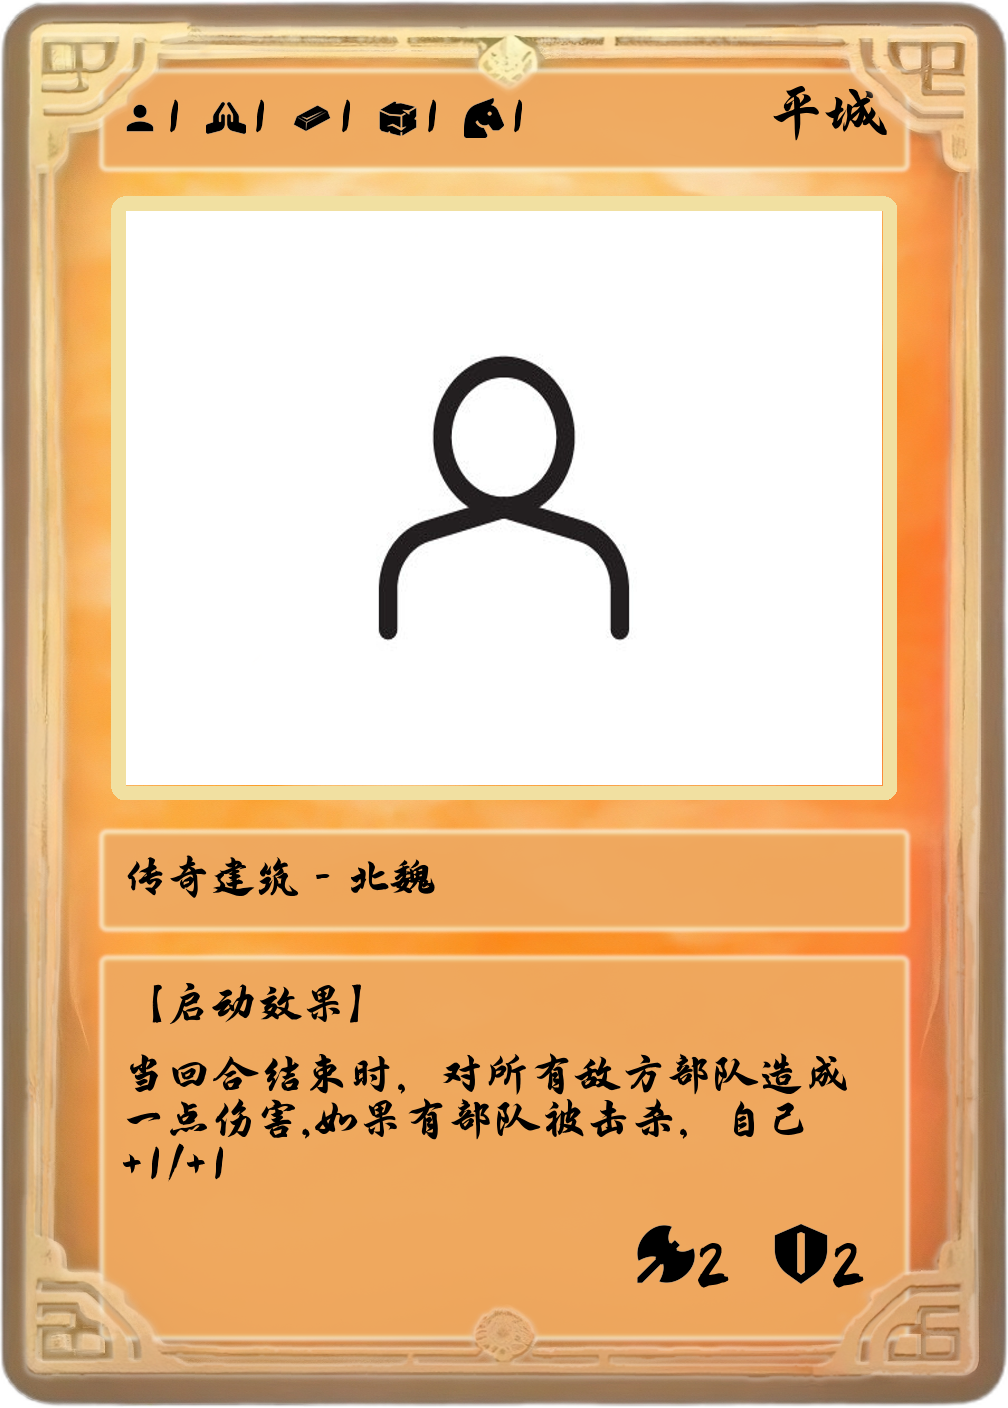
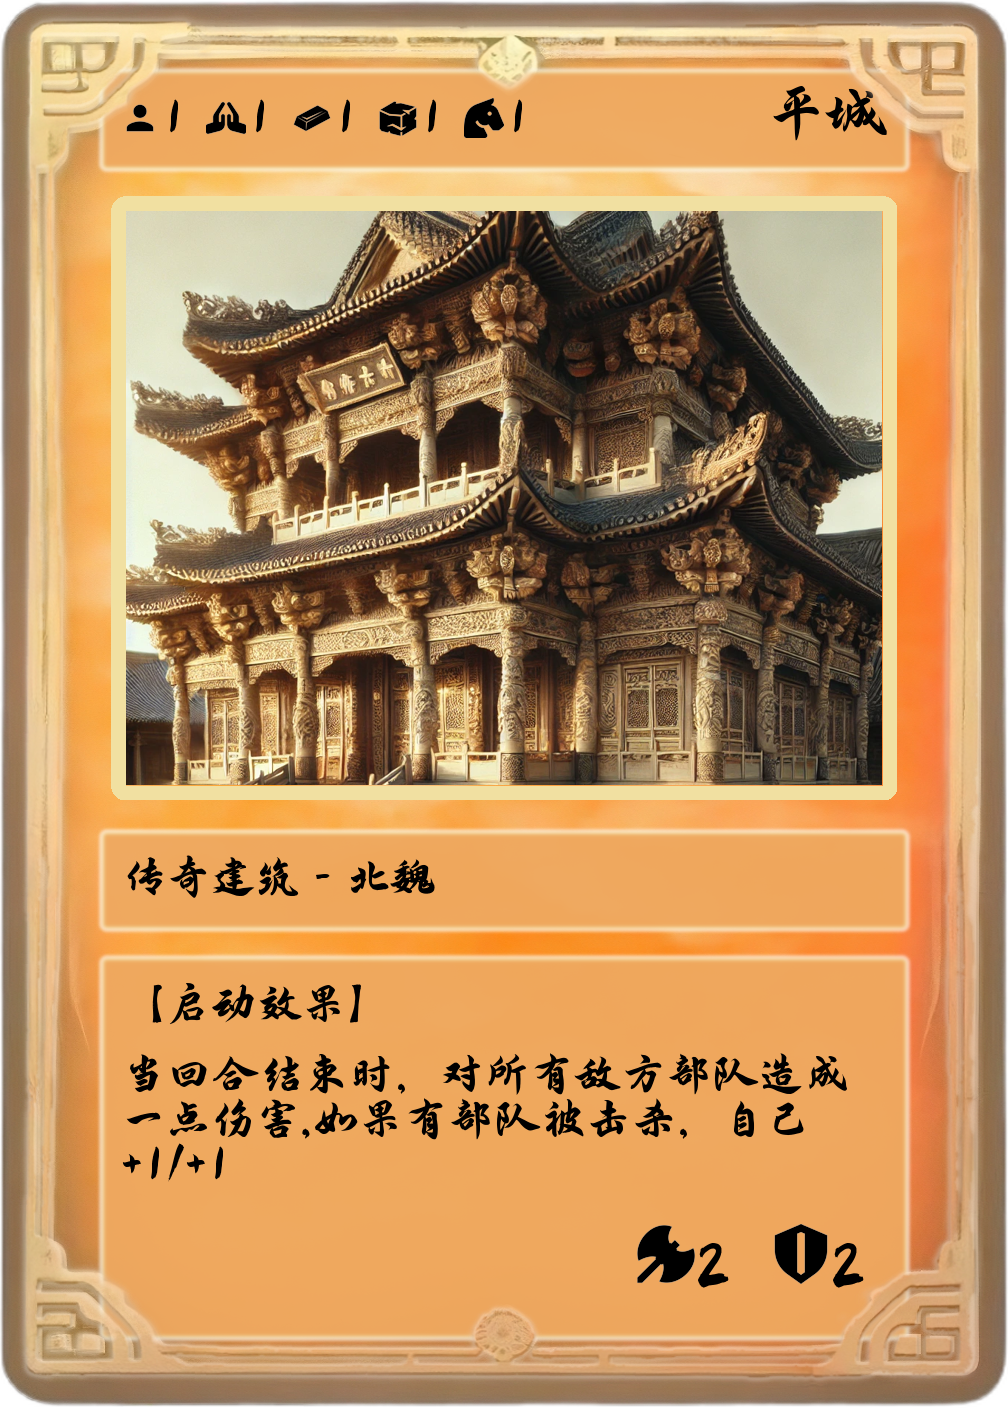
在 card_creater.py 中添加了图片裁剪功能，以确保生成的卡片图像符合预期的宽高比。Updated card_creater.py to include image cropping functionality to ensure generated card images meet the expected aspect ratio.

diff --git a/card_creater.py b/card_creater.py
@@ -87,6 +87,15 @@ class Card:
         if not os.path.exists(self.image_path):
             self.image_path="template/test.jpg"
         picture=Image.open(self.image_path)
+        original_width, original_height = picture.size
+        target_width=original_width
+        target_height=original_width*0.57/0.75
+
+        left = (original_width - target_width) / 2
+        top = (original_height - target_height) / 2
+        right = left + target_width
+        bottom = top + target_height
+        picture = picture.crop((left, top, right, bottom))
         picture=picture.resize((int(self.width*0.75),int(self.width*0.57)))
         if picture.mode != 'RGBA':
             picture = picture.convert('RGBA')
